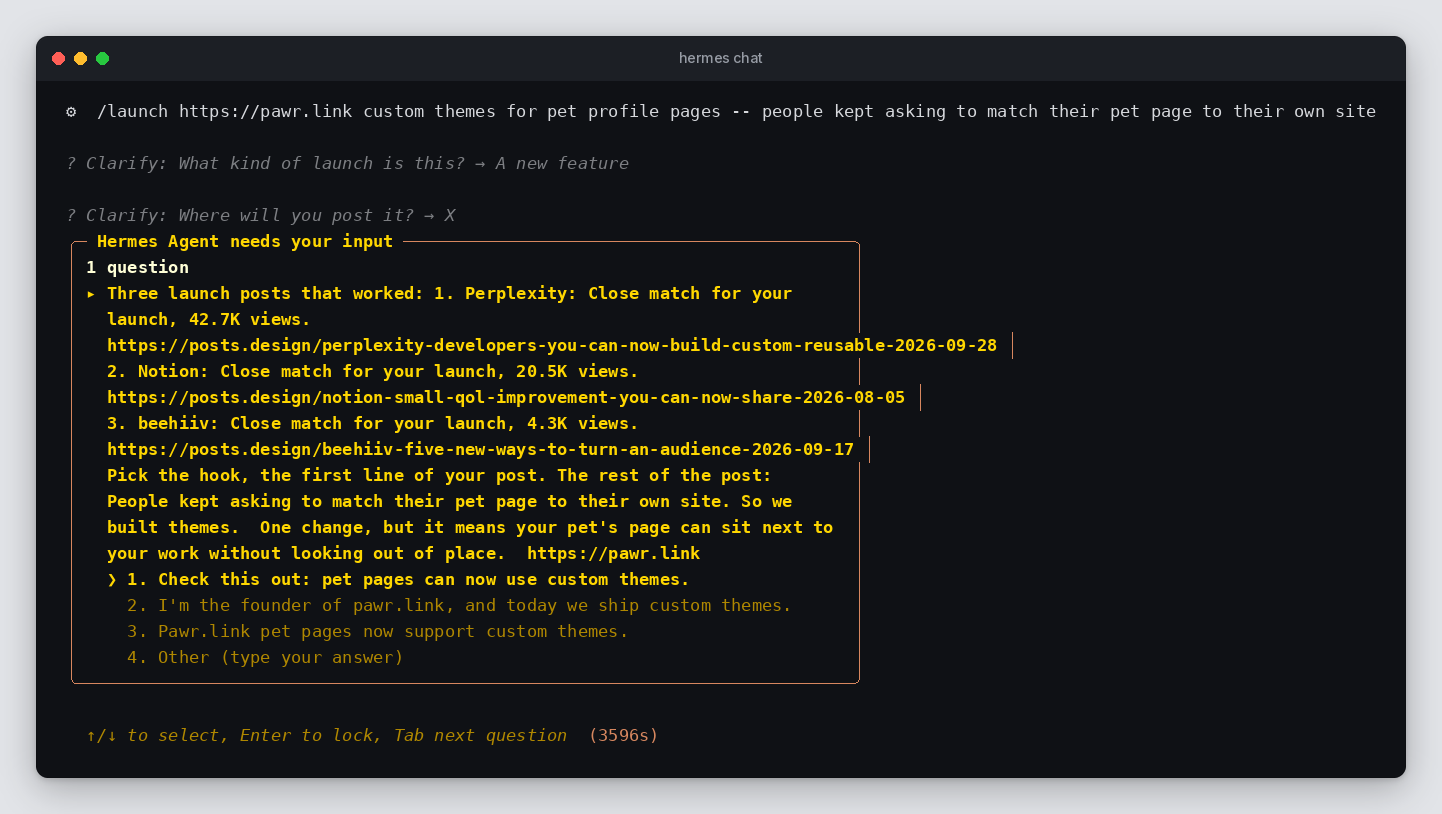
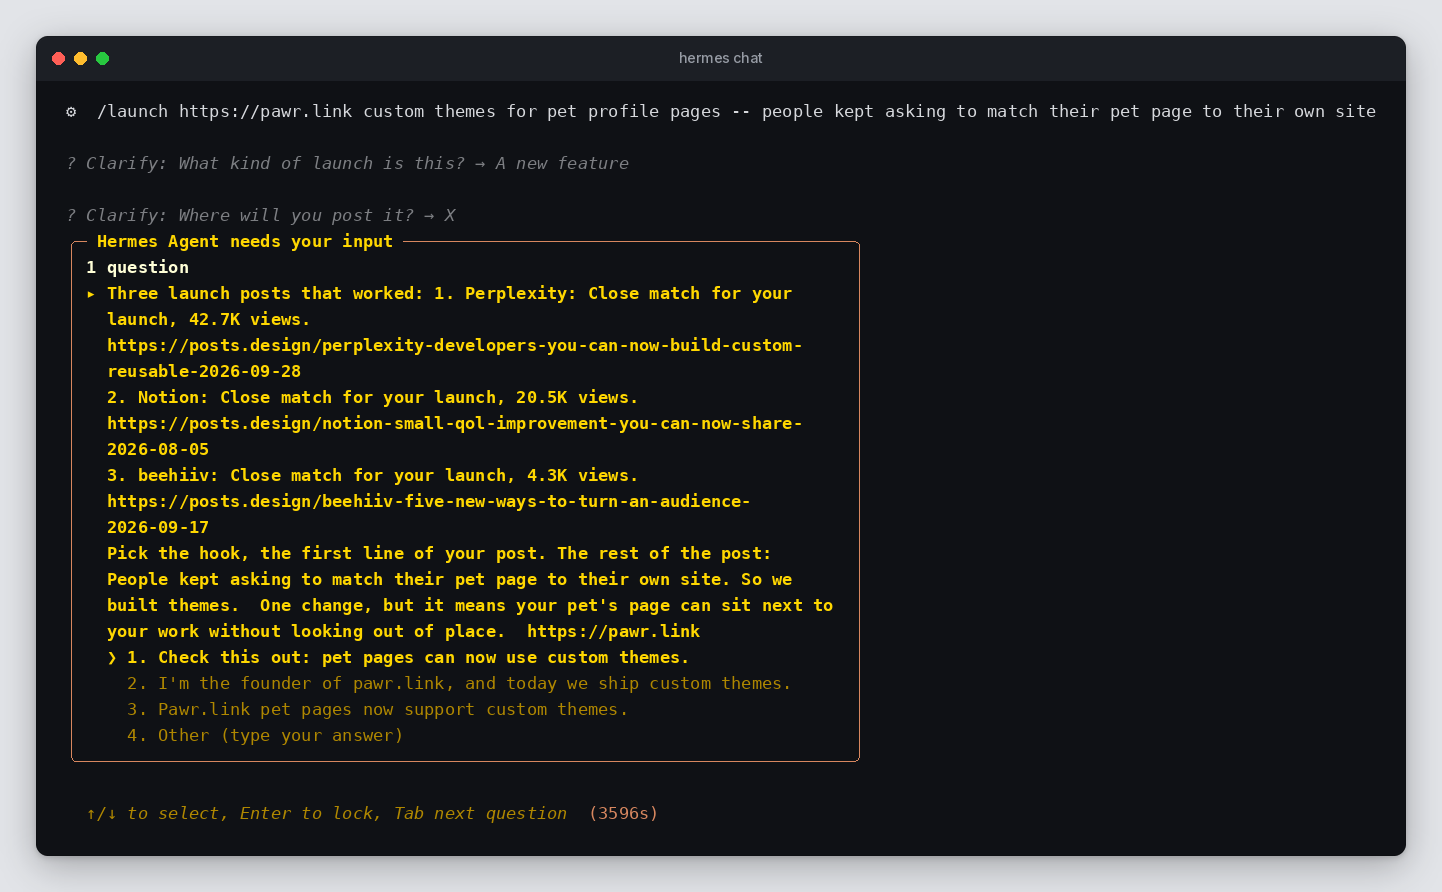
Keep the question box clean in cli-flow; add the Telegram capture
Long reference links in Hermes' question box pushed its right border
out. The redraw now wraps those rows inside the box, breaking after a
'-' or '/'. telegram-album.png is a real capture from the live
Telegram run, reduced to 256 colours (179 KB), not cropped.

diff --git a/tools/render_assets.py b/tools/render_assets.py
@@ -415,6 +415,50 @@ def box_char(d: ImageDraw.ImageDraw, ch: str, x: float, y: float, cw: float, lh:
         d.arc((bx, by, bx + 2 * r, by + 2 * r), start, start + 90, fill=col, width=1)
 
 
+def _cell_index(cells, ch: str) -> int | None:
+    return next((k for k, c in enumerate(cells) if c[0] == ch), None)
+
+
+def _break_at(text, room: int) -> int:
+    """After the last '-' or '/' that fits, in the second half of the row, unless that leaves
+    a scrap of under 8 characters for the next row (a date's day, say)."""
+    spots = [k + 1 for k in range(room) if text[k][0] in "-/" and k + 1 > room // 2]
+    good = [k for k in spots if len(text) - k >= 8]
+    return (good or spots or [room])[-1]
+
+
+def _wrap_overruns(rows):
+    """Hermes' question box keeps a fixed width, so a long link pushes that row's right
+    border past the box edge. Re-wrap such rows inside the box, breaking the long text
+    after a '-' or '/' where it can, so every border sits on the box edge."""
+    out, left, edge = [], None, None
+    for cells in rows:
+        top = _cell_index(cells, "╭")
+        if top is not None:
+            left, edge = top, _cell_index(cells, "╮")
+        elif _cell_index(cells, "╰") is not None:
+            left = edge = None
+        last = max((k for k, c in enumerate(cells) if c[0] == "│"), default=None)
+        if edge is None or last is None or last <= edge or not cells or cells[left][0] != "│":
+            out.append(cells)
+            continue
+        body = cells[left + 1:last]
+        while body and body[-1][0] in (" ", ""):
+            body.pop()
+        indent = 0
+        while indent < len(body) and body[indent][0] == " ":
+            indent += 1
+        text, room = body[indent:], edge - 1 - (left + 1 + indent)
+        border, blank = cells[left], (" ", TERM_FG, "")
+        while text:
+            cut = len(text) if len(text) <= room else _break_at(text, room)
+            piece, text = text[:cut], text[cut:]
+            line = [border] + [blank] * indent + piece
+            line += [blank] * (edge - len(line)) + [cells[last]]
+            out.append(line)
+    return out
+
+
 def terminal(ansi: Path, out: Path, start: str, end: str, size: int = 17) -> Path:
     rows = parse_ansi(ansi.read_text(encoding="utf-8"))
     plain = ["".join(c[0] for c in r) for r in rows]
@@ -427,6 +471,7 @@ def terminal(ansi: Path, out: Path, start: str, end: str, size: int = 17) -> Pat
         if "╮" in line:
             edge = line.index("╮")
         rows[i] = _drop_undrawable(r, size, edge)
+    rows = _wrap_overruns(rows)
     while rows and not "".join(c[0] for c in rows[-1]).strip():
         rows.pop()
     for r in rows:
